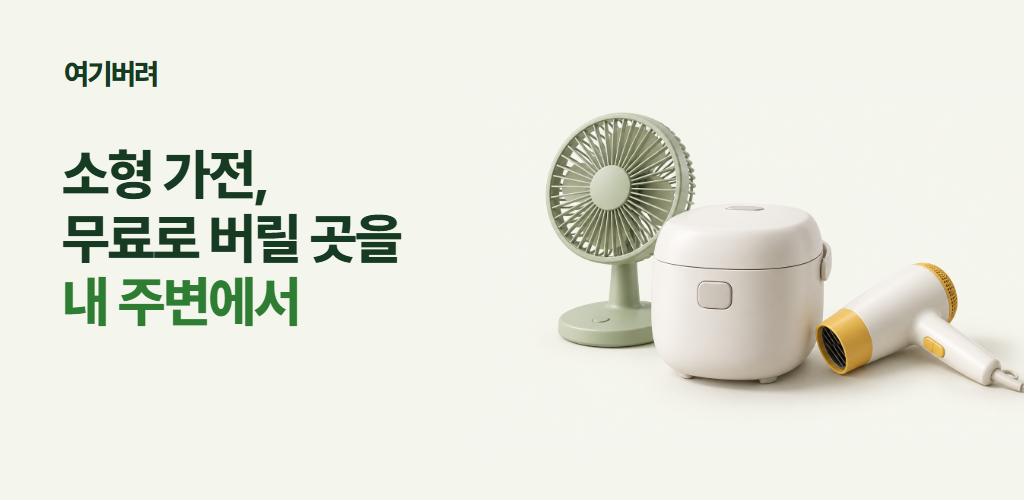
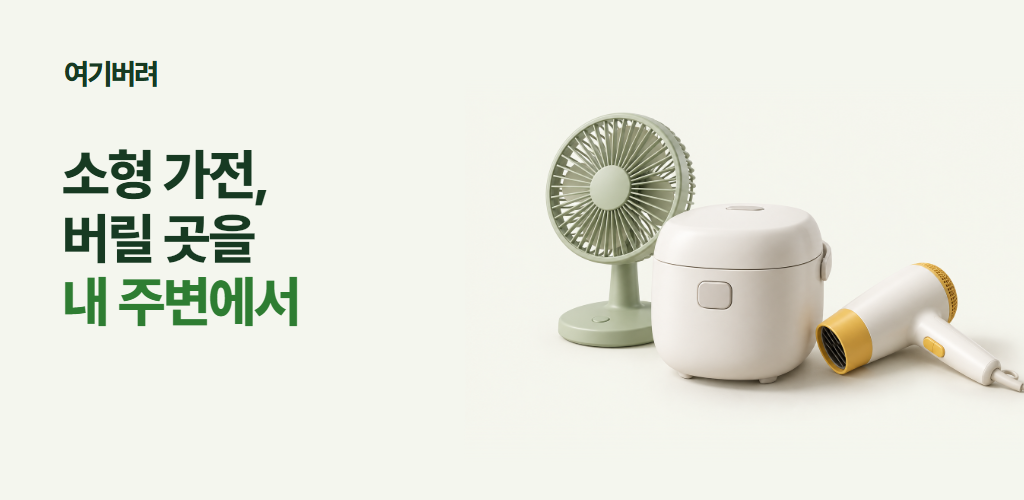
chore: 스토어 소개 이미지 무료 문구 제거
- 그래픽 이미지와 첫 번째 스크린샷의 소개 문구 수정
- README와 이미지 대체 텍스트 동기화

Refs #586

Changed region(s): [[0.0625, 0.42, 0.4062, 0.54]]

diff --git a/docs/google-play/ko-KR/README.md b/docs/google-play/ko-KR/README.md
@@ -1,6 +1,6 @@
 # Google Play 한국어 스토어 등록정보
 
-‘내 주변에서 소형 가전을 무료로 배출할 수 있는 장소’를 중심으로 앱을 소개합니다. 아래 문구와 이미지를 Google Play 스토어 등록정보의 각 항목에 사용합니다.
+가까운 소형 가전 배출 장소를 찾는 기능을 중심으로 앱을 소개합니다. 아래 문구와 이미지를 Google Play 스토어 등록정보의 각 항목에 사용합니다.
 
 ## 등록 문구
 
@@ -23,7 +23,7 @@
 
 | 순서  | 이미지                                                        | 소개 내용                              |
 | --- | ---------------------------------------------------------- | ---------------------------------- |
-| 1   | [01-nearby-free.png](screenshots/01-nearby-free.png)       | 내 주변의 무료 가전 배출 장소를 지도에서 찾습니다.      |
+| 1   | [01-nearby-free.png](screenshots/01-nearby-free.png)       | 내 주변의 가전 배출 장소를 지도에서 찾습니다.         |
 | 2   | [02-disposal-guide.png](screenshots/02-disposal-guide.png) | 가져가기 전에 소형 가전의 배출 방법과 주의사항을 확인합니다. |
 | 3   | [03-save-place.png](screenshots/03-save-place.png)         | 찾아둔 수거 장소를 즐겨찾기에 저장합니다.            |
 | 4   | [04-more-guides.png](screenshots/04-more-guides.png)       | 홈에서 품목별 분리배출 정보와 지역 안내를 확인합니다.     |
@@ -33,7 +33,7 @@
 
 [feature-graphic.png](feature-graphic.png)는 스토어 등록정보의 ‘그래픽 이미지’ 항목에 등록합니다. 휴대전화 스크린샷과 별도로 사용하는 1024 × 500 px의 불투명 RGB PNG입니다.
 
-‘소형 가전, 무료로 버릴 곳을 내 주변에서’라는 문구와 선풍기, 전기밥솥, 헤어드라이어 일러스트로 앱의 핵심 용도를 소개합니다.
+‘소형 가전, 버릴 곳을 내 주변에서’라는 문구와 선풍기, 전기밥솥, 헤어드라이어 일러스트로 앱의 핵심 용도를 소개합니다.
 
 ## 화면과 자료 출처
 
